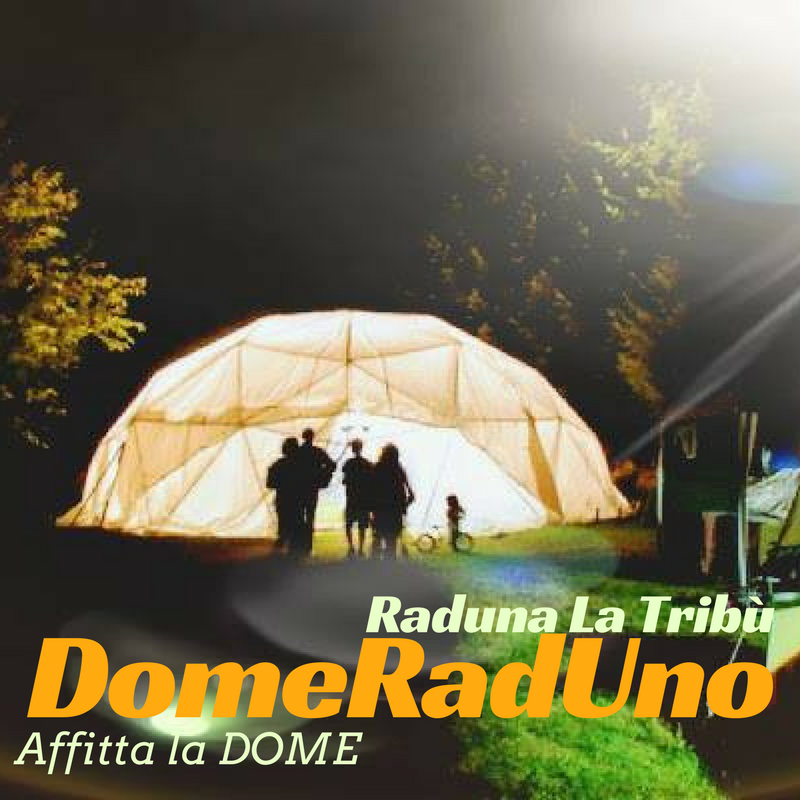
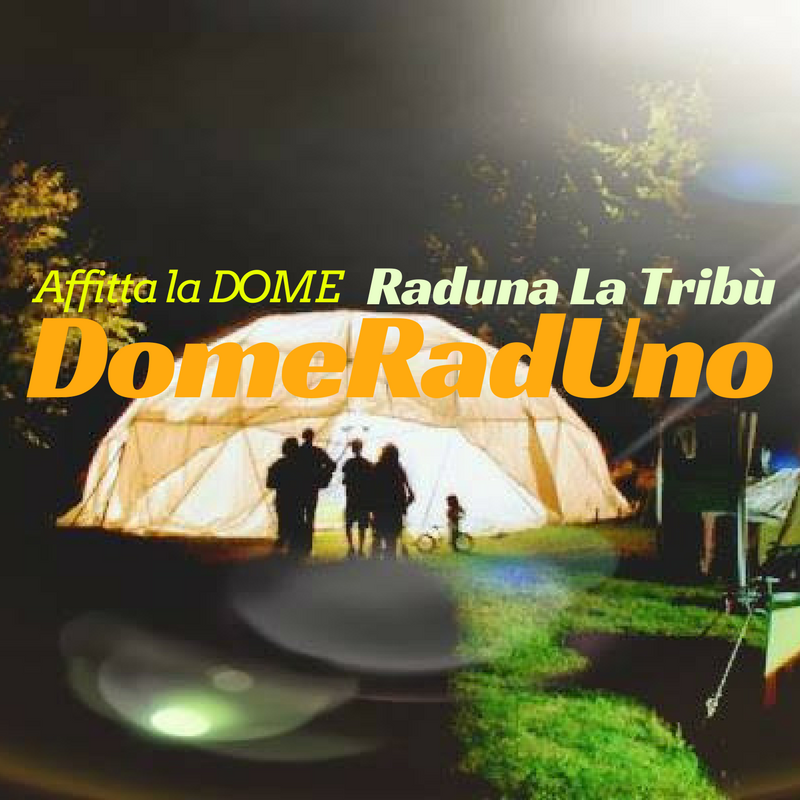
cambio img social

diff --git a/index.html b/index.html
@@ -19,7 +19,7 @@
   <!-- FB open graph -->
   <meta property="og:url" content="http://domeraduno.life/index.html" /> 
   <meta property="og:title" content="Dome Raduno | affitta la Dome e Raduna la tribù" /> 
-<meta property="og:image" content="http://domeraduno.life/dome_raduno.png" />
+<meta property="og:image" content="http://domeraduno.life/dome_raduno_sfo.png" />
   <meta property="og:description"    content="Affitta Tensostruttura DOME per eventi e raduni in natura. Richiedi preventivo | Prenota Ora" />
 
   <!-- CSS  -->
